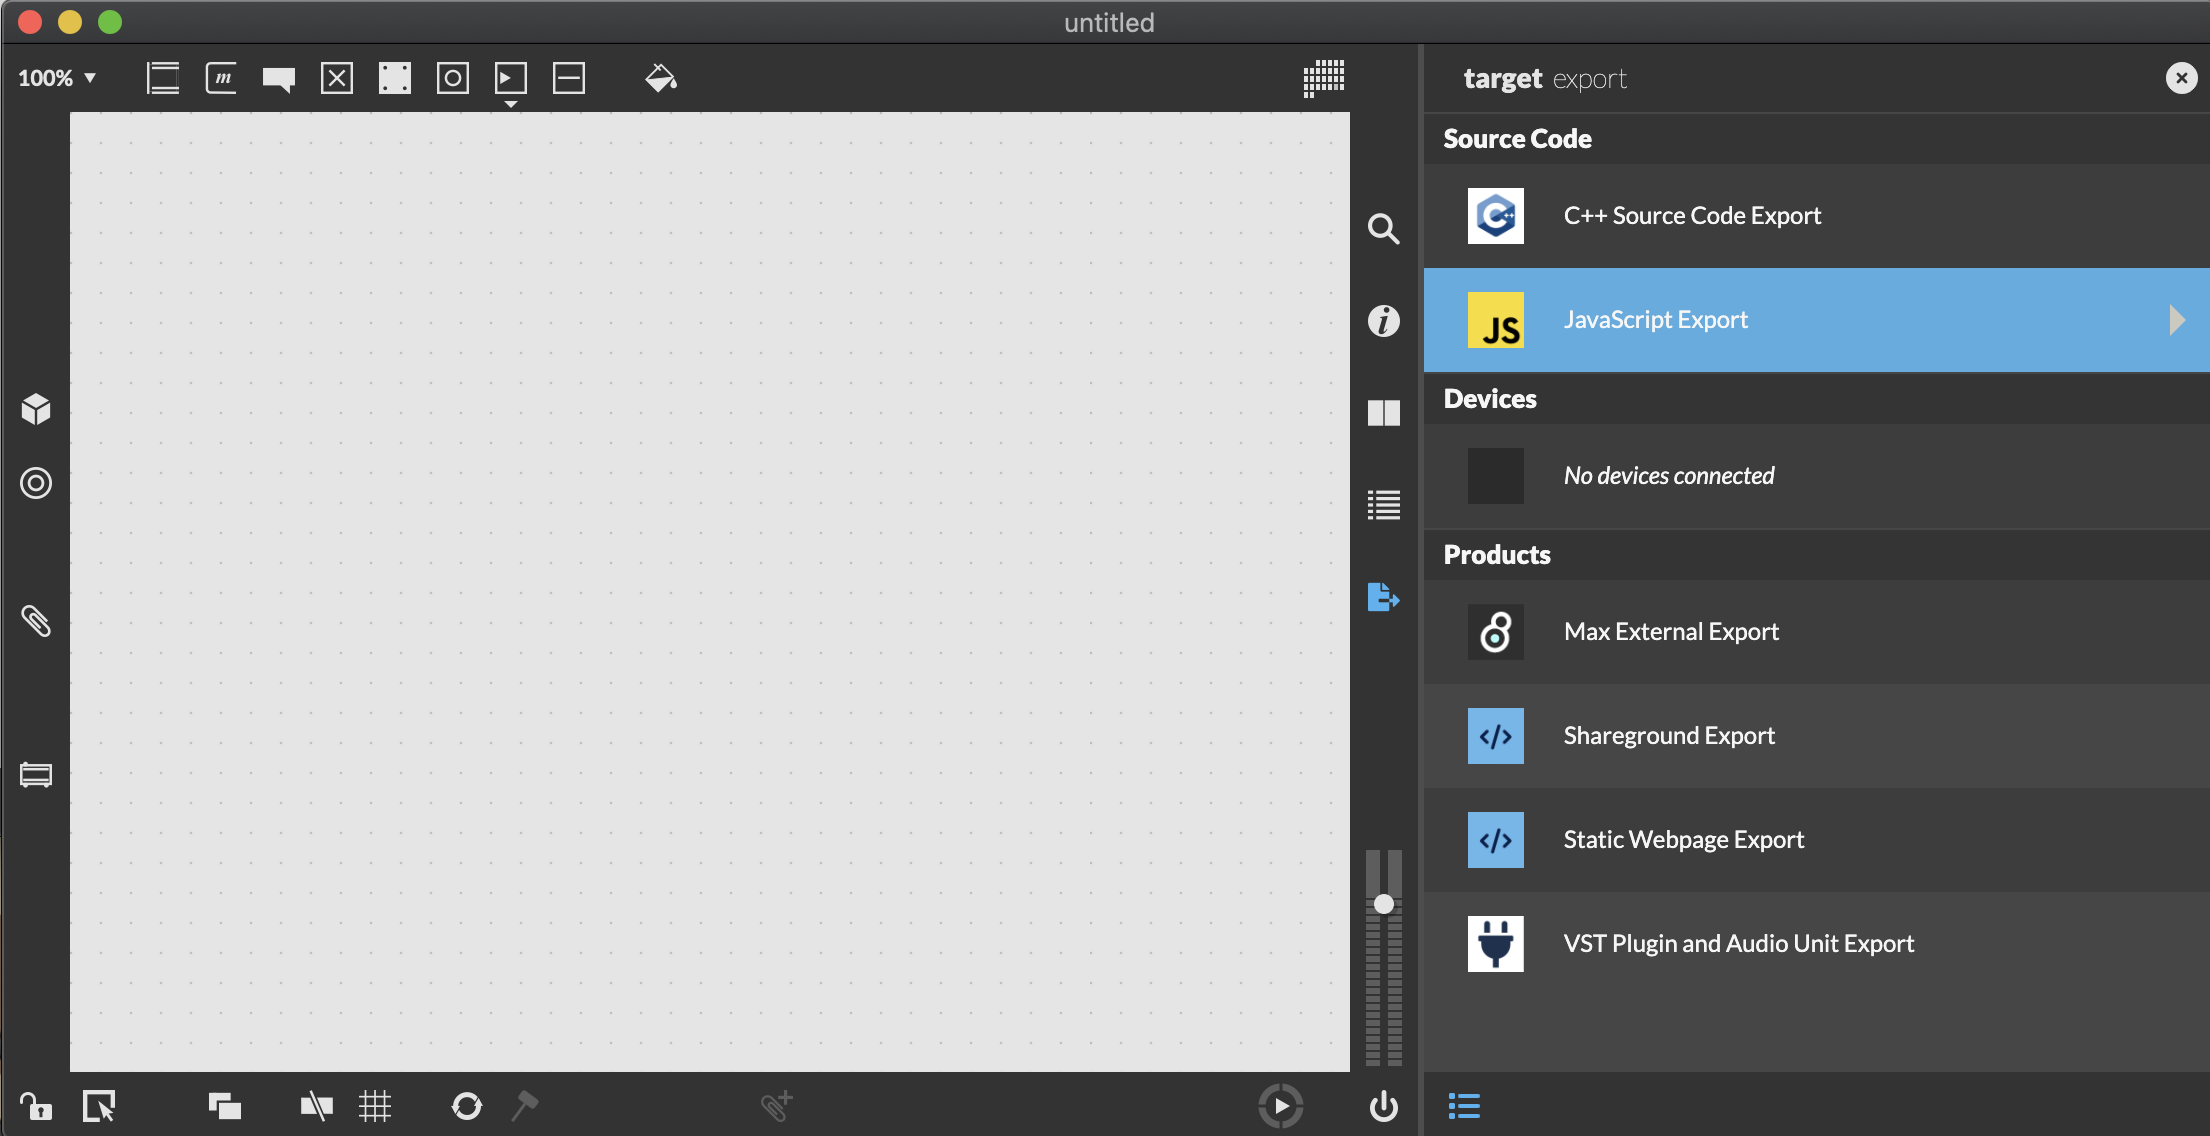
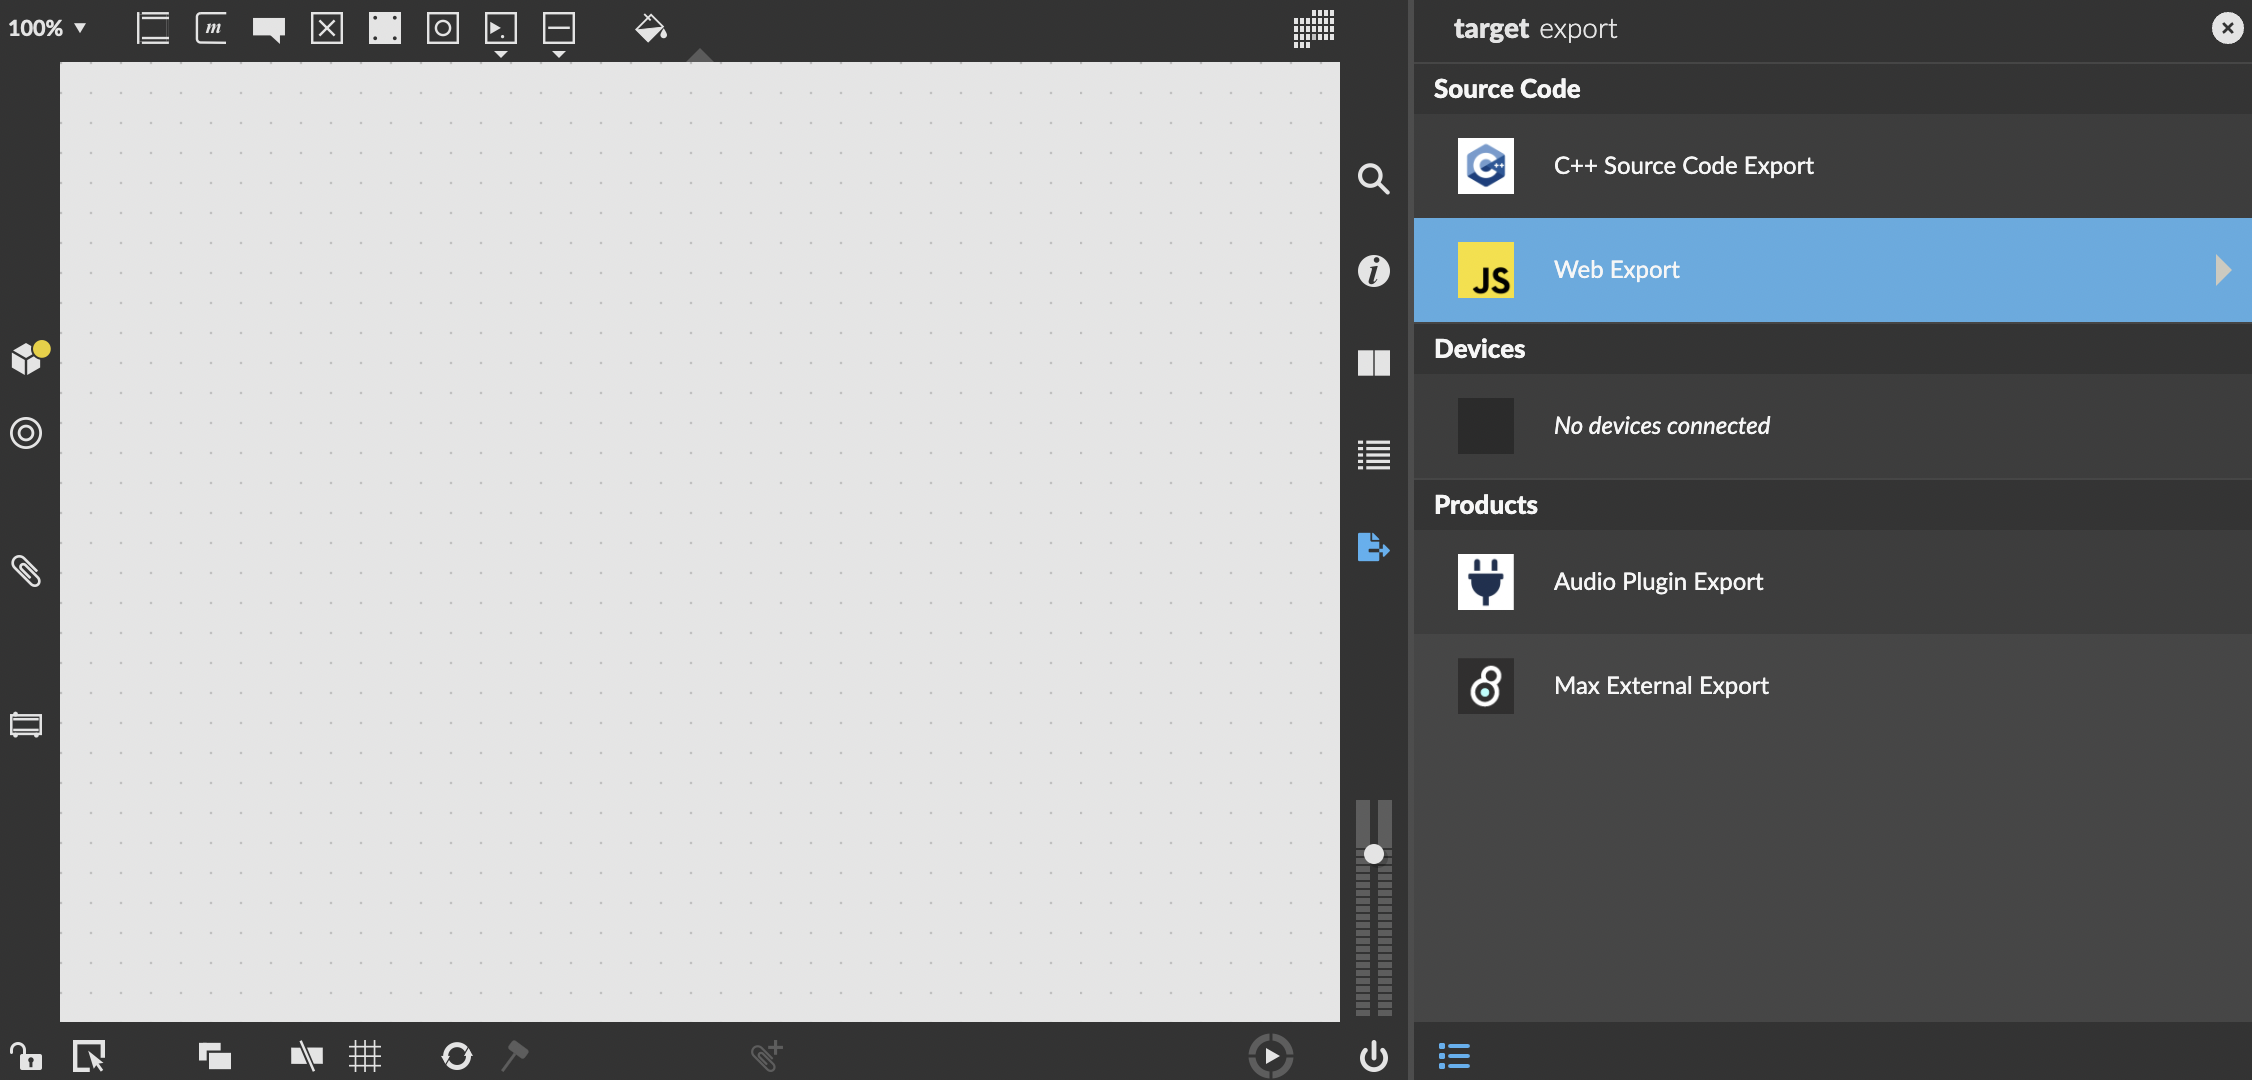
update readme and image in readme showing 'javascript export' to instead say 'web export'

diff --git a/README.md b/README.md
@@ -1,6 +1,6 @@
 # RNBO Webpage Example
 
-This example shows you how to add dynamic audio to a webpage, using the JavaScript source code export feature of RNBO, part of [Max 8](https://cycling74.com/products/max) made by [Cycling '74](https://cycling74.com).
+This example shows you how to add dynamic audio to a webpage, using the web export feature of RNBO, part of [Max 8](https://cycling74.com/products/max) made by [Cycling '74](https://cycling74.com).
 
 This repository uses [Node](https://nodejs.org/en/) to launch a simple web server to make your webpage available locally. For more on why this is necessary, see [Why a local server?](#why-a-local-server)
 
@@ -38,9 +38,9 @@ Now you need to copy this repository locally. Follow [the official steps](https:
 
 ### Working with RNBO
 
-Next, open the RNBO patcher you'd like to work with, and navigate to the export sidebar. Find "JavaScript Export" target.
+Next, open the RNBO patcher you'd like to work with, and navigate to the export sidebar. Find the "Web Export" target.
 
-![JavaScript source code export in the sidebar](./img/js-export-location.png)
+![Web export in the sidebar](./img/js-export-location.png)
 
 Export your project, making sure to export into the `export` folder in your repository directory. Your export directory should look something like this:
 
